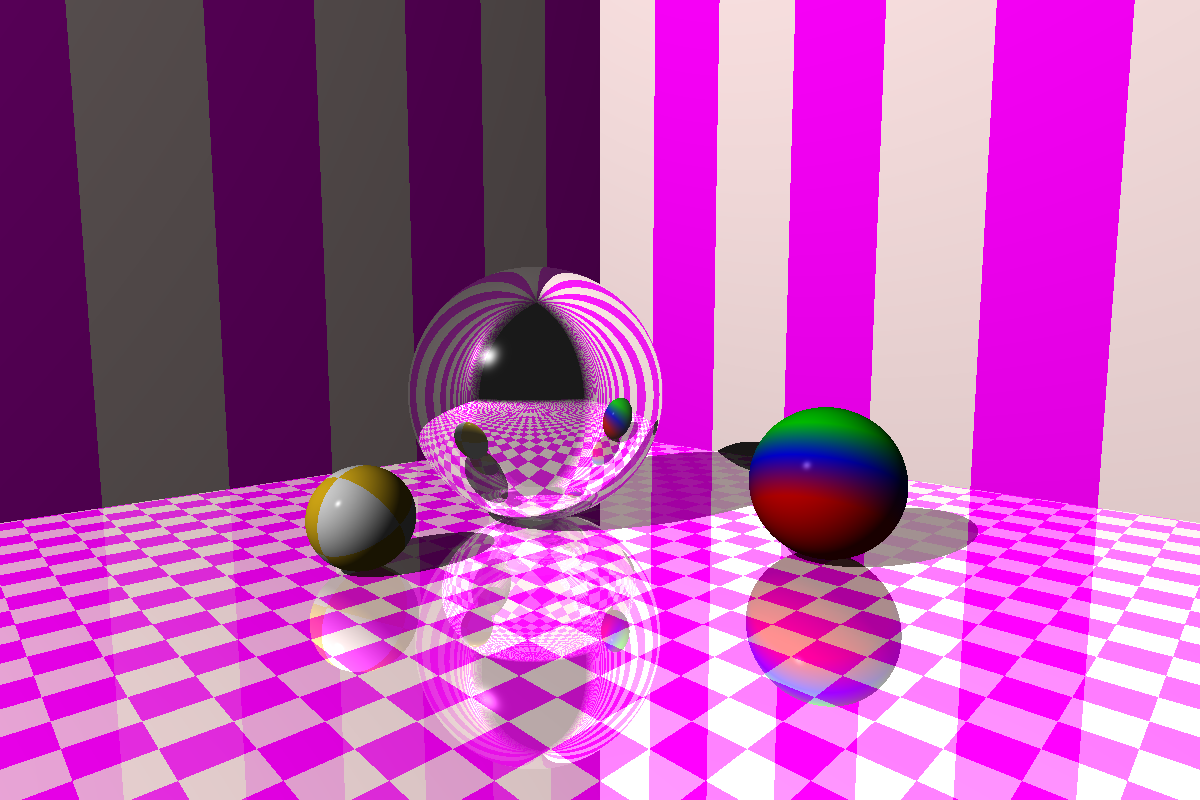
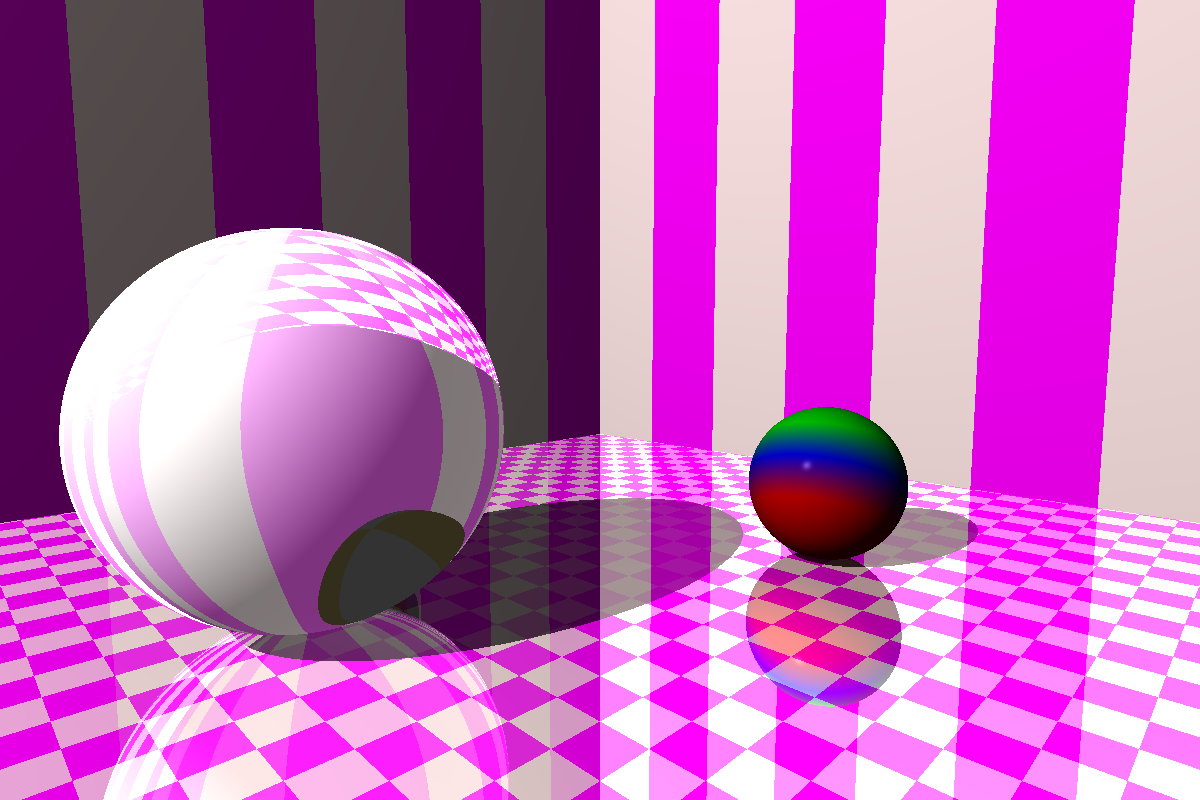
Chapter 11. Reflections and Refractions - refraction - almost applied schlick

Changed region(s): [[0.0308, 0.2812, 0.6475, 1.0]]

diff --git a/ray_tracer/src/lighting/refraction_lighting.rs b/ray_tracer/src/lighting/refraction_lighting.rs
@@ -1,0 +1,215 @@
+use crate::lighting::pre_calculations::PreCalculations;
+use crate::material::refraction::RefractionMediumIndexes;
+use crate::ray;
+use crate::rays::RayGeneration;
+use crate::world::World;
+use math::tuple::color::{BLACK, Color};
+
+impl World {
+    pub fn refracted_color(
+        &self,
+        pre_calculations: &PreCalculations,
+        refraction_medium_indexes: RefractionMediumIndexes,
+    ) -> Color {
+        let transparency = pre_calculations.shape.material.transparency;
+        if transparency <= 0. {
+            return *BLACK;
+        }
+        let n_ratio = refraction_medium_indexes.n1 / refraction_medium_indexes.n2;
+
+        let cos_i = pre_calculations.eye.dot(&pre_calculations.normal);
+
+        let sin_t = n_ratio * n_ratio * (1. - cos_i * cos_i);
+
+        if sin_t > 1. {
+            return *BLACK;
+        }
+
+        let cos_t = (1. - sin_t).sqrt();
+
+        let direction = pre_calculations.normal.clone_vector() * (n_ratio * cos_i - cos_t)
+            - pre_calculations.eye.clone_vector() * n_ratio;
+
+        let refraction_ray = ray!(pre_calculations.under_point, direction);
+
+        self.color_at(RayGeneration::new_ray_with_generation(
+            refraction_ray,
+            pre_calculations.ray_generation + 1,
+        )) * transparency
+    }
+}
+
+#[cfg(test)]
+mod refraction_lighting_tests {
+
+    use crate::intersection::{Intersection, Intersections};
+    use crate::lighting::PointLight;
+    use crate::material::Material;
+    use crate::material::pattern::Pattern;
+    use crate::primatives::Shape;
+    use crate::rays::RayGeneration;
+    use crate::world::World;
+    use crate::world::shading::default_world;
+    use crate::{ray, ray_first_gen};
+    use math::matrix::matrix_4x4::Matrix4x4;
+
+    use math::tuple::color::RED;
+    use math::{color, point};
+
+    #[test]
+    fn the_refracted_color_of_an_opaque_surface() {
+        let sphere = Shape::new_sphere();
+        let mut world = World::default();
+        world.add(sphere);
+        let sphere = world.shapes.get(0).unwrap();
+
+        let ray = ray!((0., 0., -5.), (0., 0., 1.));
+        let intersections = Intersections::new(vec![
+            Intersection::new(4., sphere),
+            Intersection::new(6., sphere),
+        ]);
+        let (hit, refraction) = intersections.hit().unwrap();
+
+        let pre_calculations =
+            hit.to_pre_calculation(RayGeneration::new_ray_with_generation(ray, 1));
+        assert_eq!(
+            color!(0, 0, 0),
+            world.refracted_color(&pre_calculations, refraction)
+        );
+    }
+
+    #[test]
+    fn the_refracted_color_under_total_internal_reflection() {
+        let mut sphere = Shape::new_sphere();
+        sphere.material = Material::glass();
+        let mut world = World::default();
+        world.add(sphere);
+        let sphere = world.shapes.get(0).unwrap();
+
+        println!("{}", sphere.id);
+        println!("{}", sphere.material.transparency);
+
+        let ray = ray!((0., 0., 2.0_f32.sqrt() / 2.), (0., 1., 0.));
+        let intersections = Intersections::new(vec![
+            Intersection::new(-2.0_f32.sqrt() / 2., sphere),
+            Intersection::new(2.0_f32.sqrt() / 2., sphere),
+        ]);
+        let (hit, refraction) = intersections.hit().unwrap();
+        let pre_calculations =
+            hit.to_pre_calculation(RayGeneration::new_ray_with_generation(ray, 1));
+        assert_eq!(
+            color!(0, 0, 0),
+            world.refracted_color(&pre_calculations, refraction)
+        );
+    }
+
+    #[test]
+    fn the_refracted_color_with_a_refracted_ray() {
+        let mut world = default_world();
+        let a = world.shapes.get_mut(0).unwrap();
+        a.material.ambient = 1.;
+        a.material.pattern = Pattern::Test;
+        let b = world.shapes.get_mut(1).unwrap();
+        b.material = Material::glass();
+        let ray = ray!((0., 0., 0.1), (0., 1., 0.));
+        let a = world.shapes.get(0).unwrap();
+        let b = world.shapes.get(1).unwrap();
+        let intersections = Intersections::new(vec![
+            Intersection::new(-0.9899, a),
+            Intersection::new(-0.4899, b),
+            Intersection::new(0.4899, b),
+            Intersection::new(0.4899, a),
+        ]);
+        let (hit, refraction) = intersections.hit().unwrap();
+
+        let pre_calculations =
+            hit.to_pre_calculation(RayGeneration::new_ray_with_generation(ray, 1));
+        assert_eq!(
+            color!(0, 0.98885316, 0.047637947),
+            world.refracted_color(&pre_calculations, refraction)
+        );
+    }
+
+    #[test]
+    fn shade_with_a_transparent_material() {
+        let mut world = World::default();
+        world.set_light(PointLight::new(point!(-10, 10, -10), color!(1.0, 1.0, 1.0)));
+
+        let mut floor = Shape::new_plane_transformed(Matrix4x4::translation(0., -1., 0.));
+        floor.material.transparency = 0.5;
+        floor.material.refractive_index = 1.5;
+        world.add(floor);
+
+        let mut ball = Shape::new_sphere_transformed(Matrix4x4::translation(0., -3.5, -0.5));
+        ball.material.pattern = Pattern::Solid(*RED);
+        ball.material.ambient = 0.5;
+        world.add(ball);
+
+        let c = world.color_at(ray_first_gen!(
+            (0., 0., -3.),
+            (0., -2.0_f32.sqrt() / 2., 2.0_f32.sqrt() / 2.)
+        ));
+        assert_eq!(color!(0.9361184, 0.6861184, 0.6861184), c);
+    }
+}
+
+#[cfg(test)]
+mod schlick_tests {
+    use super::*;
+    use crate::intersection::{Intersection, Intersections};
+    use crate::material::Material;
+    use crate::primatives::Shape;
+    use crate::ray_first_gen;
+    use math::tuple::point::Point;
+
+    #[test]
+    fn the_schlick_approximation_under_total_internal_reflection() {
+        let mut sphere = Shape::new_sphere();
+        sphere.material = Material::glass();
+        let intersections = Intersections::new(vec![
+            Intersection::new(-2.0_f32.sqrt() / 2., &sphere),
+            Intersection::new(2.0_f32.sqrt() / 2., &sphere),
+        ]);
+        let (hit, refractions) = intersections.hit().unwrap();
+        let ray = ray_first_gen!((0., 0., 2.0_f32.sqrt() / 2.), (0., 1., 0.));
+        let reflectance = schlick(&hit.to_pre_calculation(ray), &refractions);
+        assert_eq!(1., reflectance);
+    }
+
+    #[test]
+    fn the_schlick_approximation_with_a_perpendicular_viewing_angle() {
+        let mut sphere = Shape::new_sphere();
+        sphere.material = Material::glass();
+        let intersections = Intersections::new(vec![
+            Intersection::new(-1., &sphere),
+            Intersection::new(1., &sphere),
+        ]);
+        let (hit, refractions) = intersections.hit().unwrap();
+        let ray = ray_first_gen!(Point::origin(), (0., 1., 0.));
+        let reflectance = schlick(&hit.to_pre_calculation(ray), &refractions);
+        assert_eq!(0.04257999, reflectance);
+    }
+}
+
+fn schlick(
+    pre_calculations: &PreCalculations,
+    refraction_medium_indexes: &RefractionMediumIndexes,
+) -> f32 {
+    let mut cos = pre_calculations.eye.dot(&pre_calculations.normal);
+    if refraction_medium_indexes.n1 > refraction_medium_indexes.n2 {
+        let n = refraction_medium_indexes.n1 / refraction_medium_indexes.n2;
+        let sin2_t = n * n * (1.0 - cos * cos);
+        if sin2_t > 1. {
+            return 1.;
+        }
+
+        let cos_t = (1. - sin2_t).sqrt();
+
+        cos = cos_t;
+    }
+
+    let mut r0 = (refraction_medium_indexes.n1 - refraction_medium_indexes.n2)
+        / (refraction_medium_indexes.n1 + refraction_medium_indexes.n2);
+    r0 = r0 * r0;
+    r0 + (1. - r0) * (1. - cos).powf(5.)
+}

diff --git a/ray_tracer/src/world/shading.rs b/ray_tracer/src/world/shading.rs
@@ -3,6 +3,7 @@ use crate::lighting::PointLight;
 use crate::lighting::pre_calculations::PreCalculations;
 use crate::material::Material;
 use crate::material::pattern::Pattern;
+use crate::material::refraction::RefractionMediumIndexes;
 use crate::primatives::Shape;
 use crate::ray;
 use crate::rays::RayGeneration;
@@ -13,6 +14,14 @@ use math::{color, point};
 
 impl World {
     pub fn shade(&self, pre_calculations: PreCalculations) -> Color {
+        self.shade_with_refraction(pre_calculations, RefractionMediumIndexes::new(1.0, 1.0))
+    }
+
+    pub fn shade_with_refraction(
+        &self,
+        pre_calculations: PreCalculations,
+        refraction_medium_indexes: RefractionMediumIndexes,
+    ) -> Color {
         let mut result = color!(0, 0, 0, 0);
         let direct_lights = self.direct_lights(pre_calculations.over_point);
         for light in &self.lights {
@@ -29,6 +38,7 @@ impl World {
                 )
         }
         if pre_calculations.ray_generation < self.max_ray_generation {
+            result = result + self.refracted_color(&pre_calculations, refraction_medium_indexes);
             result = result + self.reflection_color(pre_calculations);
         }
         result.clamp_alpha();
@@ -51,7 +61,7 @@ impl World {
         let intersections = self.intersect(*ray);
         if let Some((hit, refractions)) = intersections.hit() {
             let pre_calculations = hit.to_pre_calculation(ray);
-            self.shade(pre_calculations)
+            self.shade_with_refraction(pre_calculations, refractions)
         } else {
             self.background
         }

diff --git a/ray_tracer/src/material/pattern/mod.rs b/ray_tracer/src/material/pattern/mod.rs
@@ -4,6 +4,7 @@ mod stripes;
 
 use crate::material::pattern::gradient::GradientStops;
 use crate::transform::Transform;
+use math::color;
 use math::tuple::color::{Color, WHITE};
 use math::tuple::point::Point;
 
@@ -13,6 +14,7 @@ pub enum Pattern {
     Stripe(Color, Color, Transform),
     Gradient(GradientStops, Transform),
     Checker(Color, Color, Transform),
+    Test,
 }
 
 impl Default for Pattern {
@@ -42,6 +44,10 @@ impl Pattern {
                 pattern_transform,
                 transform.world_point_to_object_point(point),
             ),
+            Pattern::Test => {
+                let t = transform.world_point_to_object_point(point);
+                color!(t.x, t.y, t.z)
+            }
         }
     }
 }

diff --git a/demo/src/chapter7_scene.rs b/demo/src/chapter7_scene.rs
@@ -60,13 +60,13 @@ fn wall(y: Angle) -> Shape {
 }
 
 fn green_sphere() -> Shape {
-    let mut sphere = Shape::new_sphere_transformed(Matrix4x4::translation(-0.5, 1., 0.5));
-    let mut material = Material::default();
-    material.reflectivity = 0.9;
-    material.diffuse = 0.0;
-    material.specular = 0.9;
-    material.shininess = 100.;
-    sphere.material = material;
+    let mut sphere = Shape::new_sphere_transformed(Matrix4x4::translation(-1.5, 1., -1.5));
+    // let mut material = Material::default();
+    // material.reflectivity = 0.9;
+    // material.diffuse = 0.0;
+    // material.specular = 0.9;
+    // material.shininess = 100.;
+    sphere.material = Material::glass();
     sphere
 }
 

diff --git a/ray_tracer/src/world/mod.rs b/ray_tracer/src/world/mod.rs
@@ -9,7 +9,7 @@ use crate::rays::Ray;
 use math::tuple::color::Color;
 
 pub struct World {
-    shapes: Vec<Shape>,
+    pub(crate) shapes: Vec<Shape>,
     pub lights: Vec<PointLight>,
     pub background: Color,
     pub max_ray_generation: u32,

diff --git a/ray_tracer/src/lighting/mod.rs b/ray_tracer/src/lighting/mod.rs
@@ -1,4 +1,5 @@
 pub mod pre_calculations;
+mod refraction_lighting;
 
 use crate::material::Material;
 use crate::transform::Transform;
